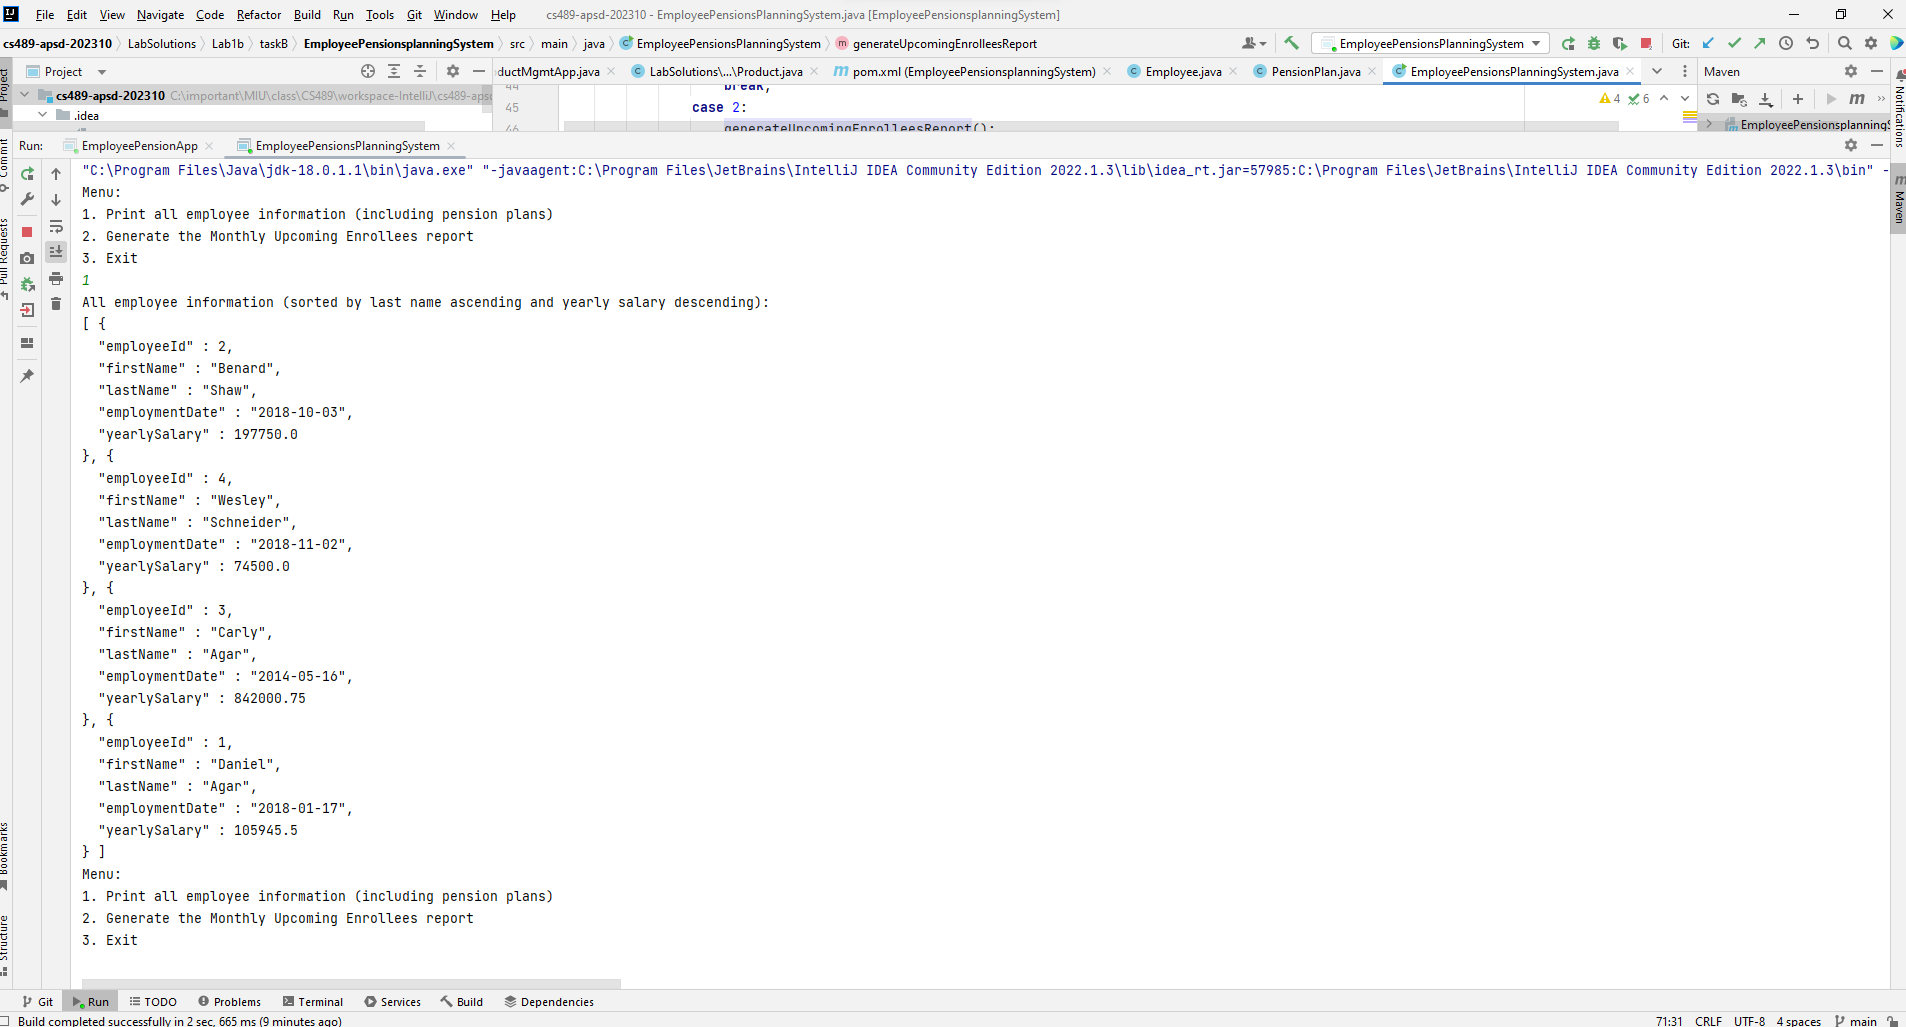
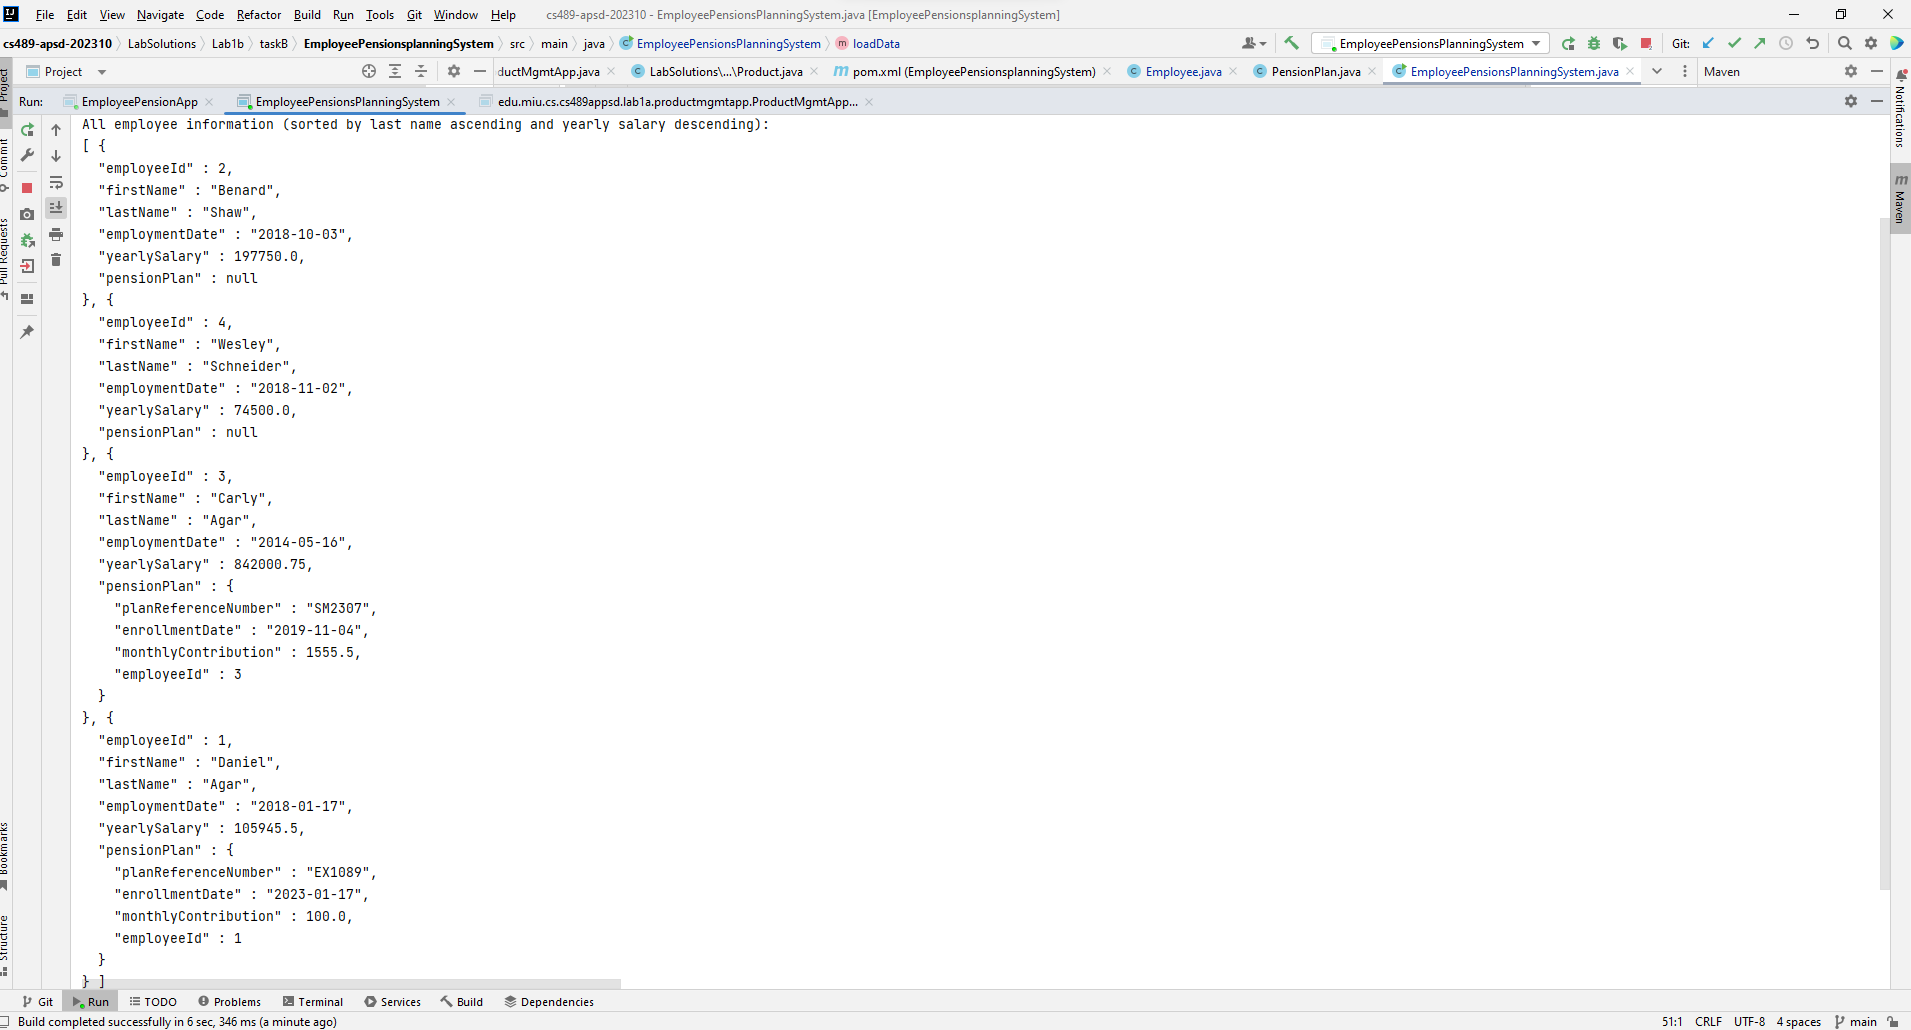
modify lab1b

Changed region(s): [[0.0, 0.0, 1.0, 1.0], [0.8667, 0.9348, 1.0, 1.0], [0.0, 0.9036, 0.031, 0.9348]]

diff --git a/LabSolutions/Lab1b/taskB/EmployeePensionsplanningSystem/src/main/java/EmployeePensionsPlanningSystem.java b/LabSolutions/Lab1b/taskB/EmployeePensionsplanningSystem/src/main/java/EmployeePensionsPlanningSystem.java
@@ -106,6 +106,8 @@ public class EmployeePensionsPlanningSystem {
             employees.add(new Employee(2, "Benard", "Shaw", parseDate("2018-10-03"), 197750.00));
             employees.add(new Employee(3, "Carly", "Agar", parseDate("2014-05-16"), 842000.75));
             employees.add(new Employee(4, "Wesley", "Schneider", parseDate("2018-11-02"), 74500.00));
+            employees.get(0).setPensionPlan(new PensionPlan("EX1089", parseDate("2023-01-17"), 100.00, 1));
+            employees.get(2).setPensionPlan(new PensionPlan("SM2307", parseDate("2019-11-04"), 1555.50, 3));
 
             pensionPlans.add(new PensionPlan("EX1089", parseDate("2023-01-17"), 100.00, 1));
             pensionPlans.add(new PensionPlan("SM2307", parseDate("2019-11-04"), 1555.50, 3));

diff --git a/LabSolutions/Lab1b/taskB/EmployeePensionsplanningSystem/src/main/java/model/Employee.java b/LabSolutions/Lab1b/taskB/EmployeePensionsplanningSystem/src/main/java/model/Employee.java
@@ -12,6 +12,8 @@ public class Employee {
     private Date employmentDate;
     private double yearlySalary;
 
+    private PensionPlan pensionPlan;
+
     public Employee(long employeeId, String firstName, String lastName, Date employmentDate, double yearlySalary) {
         this.employeeId = employeeId;
         this.firstName = firstName;
@@ -59,5 +61,13 @@ public class Employee {
 
     public void setYearlySalary(double yearlySalary) {
         this.yearlySalary = yearlySalary;
+    }
+
+    public PensionPlan getPensionPlan() {
+        return pensionPlan;
+    }
+
+    public void setPensionPlan(PensionPlan pensionPlan) {
+        this.pensionPlan = pensionPlan;
     }
 }
